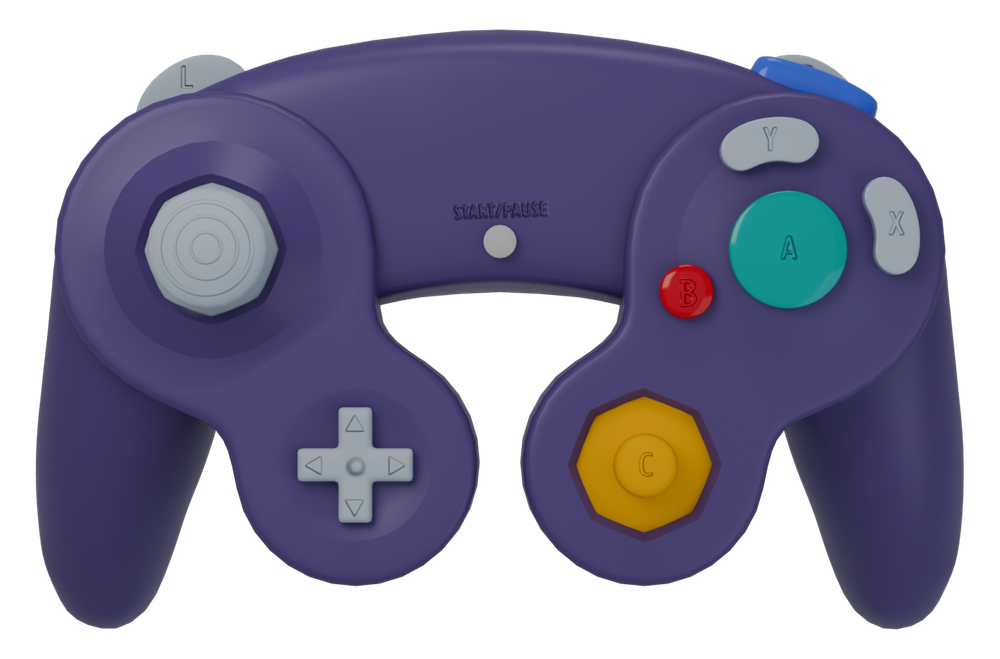
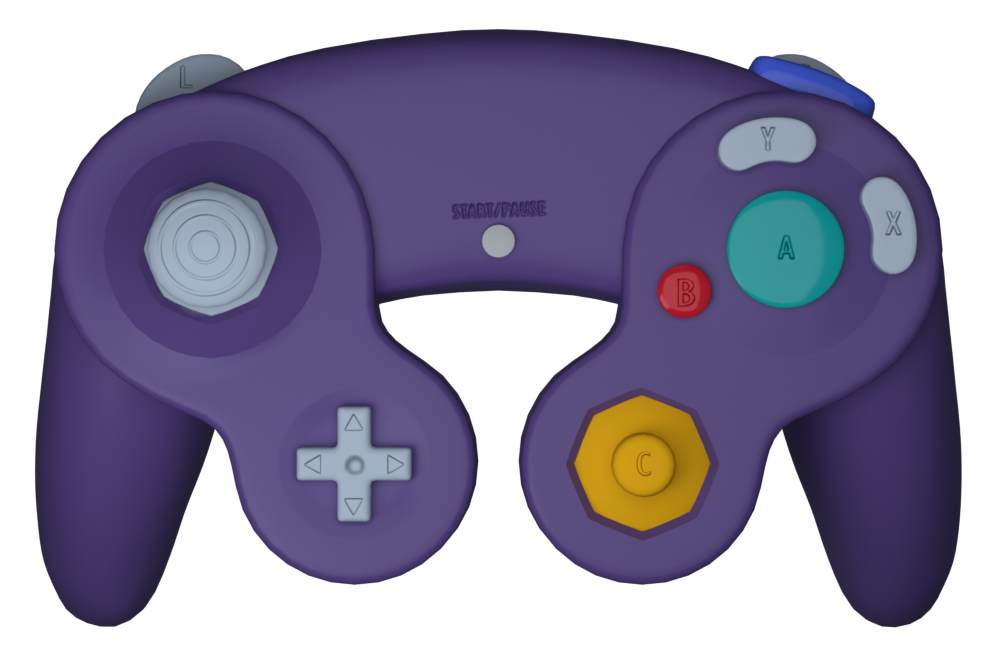
Settings: controller picture re-rendered from the model, sticks tilt on bones
The view from above (art/top.png) is rendered again from the GameCube controller
model with Blender (art/render_top.py, reproducible from the model folder, which
it only reads): the camera of the earlier picture, found by matching its
silhouette (outlines within about 1 %, so the button masks and hotspots still fit
unchanged), and light chosen by comparing renders with it. The brand logo printed
on the model's texture is painted out in a copy, so it is not on the pictures.

For the sticks the picture is also rendered in layers: the controller without its
stick caps (art/top_body.png), and each cap turned on a bone at its stick's root,
up to 22 degrees, towards every point of a 7 x 7 grid of stick positions, rendered
only round the stick with the shell held out (art/top_stick_main.png,
art/top_stick_c.png, kStickCaps in art/hotspots.inc). While a stick is tilted the
Controller buttons page draws the body and the frame nearest each stick's
position, so the caps lean in 3D the way the player holds them, with the real
gate showing; still, it draws the whole picture as before. This replaces cutting
the caps out of the picture and filling their place with a guessed colour.
Settings.exe grows by about 2.5 MB.

diff --git a/tools/padconfig/art/render_top.py b/tools/padconfig/art/render_top.py
@@ -1,0 +1,218 @@
+# Blender (background): the controller from above for the Settings program (tools/padconfig/art), in layers.
+#   blender -b --factory-startup --python render_top.py -- <model dir> <out dir> [samples] [all|full|layers|sticks]
+# <model dir>: the GameCube controller model (source/Gamecube_controller_mesh.zip, textures/*.png); nothing in it is
+# changed. Renders top_full.png (art/top.png), top_body.png (art/top_body.png: without the two stick caps) and
+# top_cap_main.png / top_cap_c.png (each cap alone; cropped to their box they are art/top_cap_*.png, the boxes are
+# kStickCaps in art/hotspots.inc), all 1000 x 659 with a transparent background, the same camera and light. Blender 4.5,
+# Cycles on the CPU: about 90 s. The camera is the earlier art/top.png's (found by matching its silhouette), so the
+# button masks still fit.
+import bpy, sys, os, math, tempfile, zipfile
+from mathutils import Vector
+
+argv = sys.argv[sys.argv.index("--") + 1:]
+model, out = argv[0], argv[1]
+samples = int(argv[2]) if len(argv) > 2 else 128
+only = argv[3] if len(argv) > 3 else "all"
+os.makedirs(out, exist_ok=True)
+textures = os.path.join(model, "textures")
+
+bpy.ops.wm.read_factory_settings(use_empty=True)
+unpacked = tempfile.mkdtemp()
+with zipfile.ZipFile(os.path.join(model, "source", "Gamecube_controller_mesh.zip")) as z:
+    z.extractall(unpacked)
+bpy.ops.wm.obj_import(filepath=os.path.join(unpacked, "GameCube_Controller_OBJ_High.obj"))
+mesh = [o for o in bpy.context.scene.objects if o.type == 'MESH'][0]
+
+# The model's textures (the OBJ's MTL file is not shipped): base colour, normal map, roughness.
+mat = bpy.data.materials.new("Controller")
+mat.use_nodes = True
+nt = mat.node_tree
+bsdf = nt.nodes["Principled BSDF"]
+def tex(name, non_color):
+    n = nt.nodes.new("ShaderNodeTexImage")
+    n.image = bpy.data.images.load(os.path.join(textures, "Gamecube_controller_mesh_GameCube_Mat_" + name + ".png"))
+    if non_color:
+        n.image.colorspace_settings.name = "Non-Color"
+    return n
+base = tex("Base", False)
+# No brand logo on the pictures: the logo printed on the texture (pixels 661..857 x 1368..1469 of the 2048 x 2048 base
+# colour, on plain purple) is painted over with that purple, in a copy.
+img = base.image
+w, h = img.size
+px = list(img.pixels[:])
+purple = (90 / 255.0, 70 / 255.0, 129 / 255.0, 1.0)
+for y in range(1368, 1470):
+    row = (h - 1 - y) * w  # Blender's rows start at the bottom
+    for x in range(661, 858):
+        px[(row + x) * 4:(row + x) * 4 + 4] = purple
+img.pixels[:] = px
+# Saved beside the unpacked model (a temporary folder) and used from there: the renderer reads the file.
+img.filepath_raw = os.path.join(unpacked, "base_without_logo.png")
+img.file_format = 'PNG'
+img.save()
+img.reload()
+nt.links.new(base.outputs["Color"], bsdf.inputs["Base Color"])
+nt.links.new(tex("Roug", True).outputs["Color"], bsdf.inputs["Roughness"])
+nm = nt.nodes.new("ShaderNodeNormalMap")
+nt.links.new(tex("Norm", True).outputs["Color"], nm.inputs["Color"])
+nt.links.new(nm.outputs["Normal"], bsdf.inputs["Normal"])
+mesh.data.materials.clear()
+mesh.data.materials.append(mat)
+for p in mesh.data.polygons:
+    p.use_smooth = True
+
+# Split into its loose parts and name the two stick caps by where they are.
+bpy.context.view_layer.objects.active = mesh
+mesh.select_set(True)
+bpy.ops.object.mode_set(mode='EDIT')
+bpy.ops.mesh.select_all(action='SELECT')
+bpy.ops.mesh.separate(type='LOOSE')
+bpy.ops.object.mode_set(mode='OBJECT')
+def centre(o):
+    cs = [o.matrix_world @ v.co for v in o.data.vertices]
+    return sum(cs, Vector()) / len(cs)
+caps = {}
+for o in bpy.context.scene.objects:
+    if o.type != 'MESH':
+        continue
+    c = centre(o)
+    size = max(o.dimensions)
+    if abs(c.x + 15.0) < 1.0 and abs(c.y) < 1.0 and 7.0 < size < 9.0:
+        caps["main"] = o
+    elif abs(c.x - 7.57) < 1.0 and abs(c.y + 11.25) < 1.0 and 7.0 < size < 9.0:
+        caps["c"] = o
+assert set(caps) == {"main", "c"}, caps
+
+scene = bpy.context.scene
+scene.render.engine = 'CYCLES'
+scene.cycles.samples = samples
+scene.cycles.use_denoising = True
+scene.cycles.device = 'CPU'
+scene.render.threads_mode = 'FIXED'
+scene.render.threads = 4
+scene.render.film_transparent = True
+scene.render.resolution_x, scene.render.resolution_y = 1000, 659
+scene.render.resolution_percentage = 100
+scene.view_settings.view_transform = 'Standard'
+scene.view_settings.look = 'None'
+
+# The camera of top.png, found by matching its silhouette (fit_camera.py): straight down from 195.5 units over
+# (0.08, -4.19), 19.35 pixels per unit at height 22.
+cam_data = bpy.data.cameras.new("Top")
+cam_data.sensor_fit = 'HORIZONTAL'
+cam_data.sensor_width = 36.0
+cam_data.lens = 19.35 * (195.5 - 22.0) / 1000.0 * 36.0
+cam = bpy.data.objects.new("Top", cam_data)
+scene.collection.objects.link(cam)
+cam.location = (0.08, -4.19, 195.5)
+cam.rotation_euler = (0.0, 0.0, 0.0)
+scene.camera = cam
+
+# Light: a soft studio key from the upper left and front, a fill, and a grey world.
+# Chosen by comparing renders with the earlier art/top.png: the world's strength, the key, fill, rim and overhead
+# energies, how cool the world is; the plastic's specular level, the lights' colour and the exposure.
+LIGHT = [0.05, 8000.0, 500.0, 600.0, 26000.0, 1.2]
+TINT = (0.86, 0.9, 1.0)
+scene.view_settings.exposure = 0.35
+bsdf.inputs["Specular IOR Level"].default_value = 0.25
+world = bpy.data.worlds.new("World")
+scene.world = world
+world.use_nodes = True
+world.node_tree.nodes["Background"].inputs["Color"].default_value = (0.8 - 0.1 * LIGHT[5], 0.8 - 0.05 * LIGHT[5], 0.82 + 0.15 * LIGHT[5], 1.0)
+world.node_tree.nodes["Background"].inputs["Strength"].default_value = LIGHT[0]
+def area(name, loc, energy, size):
+    d = bpy.data.lights.new(name, 'AREA')
+    d.energy = energy
+    d.size = size
+    d.color = TINT
+    o = bpy.data.objects.new(name, d)
+    scene.collection.objects.link(o)
+    o.location = loc
+    o.rotation_euler = (Vector((0, 0, 0)) - Vector(loc)).to_track_quat('-Z', 'Y').to_euler()
+    return o
+area("Key", (-30.0, -25.0, 60.0), LIGHT[1], 30.0)
+area("Fill", (35.0, -10.0, 45.0), LIGHT[2], 40.0)
+area("Rim", (0.0, 40.0, 40.0), LIGHT[3], 30.0)
+if LIGHT[4] > 0:
+    area("Overhead", (0.0, -4.0, 90.0), LIGHT[4], 70.0)  # a big softbox above: the faces towards the camera
+
+def render(name, hide=(), holdout=()):
+    for o in scene.objects:
+        if o.type == 'MESH':
+            o.hide_render = o in hide
+            o.is_holdout = o in holdout
+    scene.render.filepath = os.path.join(out, name)
+    bpy.ops.render.render(write_still=True)
+    print("WROTE", scene.render.filepath)
+
+others = [o for o in scene.objects if o.type == 'MESH' and o not in caps.values()]
+# ---- the sticks as a virtual controller: a bone at each stick's root, the cap tilted on it ----------------------------
+# "sticks": each cap alone (the rest held out, so the shell hides what tilts under it), tilted towards each point of a
+# GRID x GRID grid of stick positions (-1..1 on both axes, the tilt's length kept within 1), up to MOST_TILT degrees,
+# rendered only in the area round the stick: sticks/<main|c>_<column>_<row>.png, column 0 = full left, row 0 = full
+# down. The cap turns on a bone whose head is the stick's root, PIVOT_DEPTH units under the cap.
+GRID, MOST_TILT, PIVOT_DEPTH = 7, 22.0, 4.0
+# Where each stick is in the picture, as fractions of its width and height from the top left (the area rendered).
+STICK_AREA = {"main": (0.066, 0.158, 0.356, 0.598), "c": (0.496, 0.481, 0.788, 0.924)}
+
+def stick_frames():
+    from mathutils import Matrix, Quaternion
+    arm_data = bpy.data.armatures.new("Sticks")
+    rig = bpy.data.objects.new("Sticks", arm_data)
+    scene.collection.objects.link(rig)
+    bpy.context.view_layer.objects.active = rig
+    bpy.ops.object.mode_set(mode='EDIT')
+    for key, cap in caps.items():
+        lo = min((cap.matrix_world @ v.co).z for v in cap.data.vertices)
+        c = centre(cap)
+        bone = arm_data.edit_bones.new(key)
+        bone.head = (c.x, c.y, lo - PIVOT_DEPTH)  # the stick's root
+        bone.tail = (c.x, c.y, lo)
+    bpy.ops.object.mode_set(mode='OBJECT')
+    for key, cap in caps.items():
+        world = cap.matrix_world.copy()
+        cap.parent = rig
+        cap.parent_type = 'BONE'
+        cap.parent_bone = key
+        cap.matrix_world = world  # stays where it is; follows the bone from now on
+    rig.hide_render = True
+    os.makedirs(os.path.join(out, "sticks"), exist_ok=True)
+    scene.render.use_border = True
+    scene.render.use_crop_to_border = True
+    for key, cap in caps.items():
+        x0, y0, x1, y1 = STICK_AREA[key]
+        scene.render.border_min_x, scene.render.border_max_x = x0, x1
+        scene.render.border_min_y, scene.render.border_max_y = 1.0 - y1, 1.0 - y0
+        for o in scene.objects:
+            if o.type == 'MESH':
+                o.hide_render = o in caps.values() and o is not cap
+                o.is_holdout = o in others
+        pose = rig.pose.bones[key]
+        pose.rotation_mode = 'QUATERNION'
+        rest = rig.data.bones[key].matrix_local.to_3x3()
+        for column in range(GRID):
+            for row in range(GRID):
+                dx = column / (GRID - 1) * 2.0 - 1.0
+                dy = row / (GRID - 1) * 2.0 - 1.0
+                length = math.hypot(dx, dy)
+                if length > 1.0:
+                    dx, dy, length = dx / length, dy / length, 1.0
+                if length > 0.0:
+                    # Pushed towards (dx, dy) the stick's top leans that way: a turn about (-dy, dx, 0).
+                    turn = Matrix.Rotation(math.radians(MOST_TILT * length), 3, Vector((-dy, dx, 0.0)).normalized())
+                    pose.rotation_quaternion = (rest.inverted() @ turn @ rest).to_quaternion()
+                else:
+                    pose.rotation_quaternion = Quaternion()
+                bpy.context.view_layer.update()
+                scene.render.filepath = os.path.join(out, "sticks", "%s_%d_%d.png" % (key, column, row))
+                bpy.ops.render.render(write_still=True)
+        pose.rotation_quaternion = Quaternion()
+    print("WROTE sticks")
+if only in ("all", "full"):
+    render("top_full.png")
+if only == "sticks":
+    stick_frames()
+if only in ("all", "layers"):
+    render("top_body.png", hide=list(caps.values()))
+    render("top_cap_main.png", hide=[caps["c"]], holdout=others)
+    render("top_cap_c.png", hide=[caps["main"]], holdout=others)

diff --git a/tools/padconfig/controller_view.cpp b/tools/padconfig/controller_view.cpp
@@ -59,9 +59,10 @@ Bitmap* load_art(int id) {
 
 Bitmap* art(int id) {
     // Kept for the program's life: they must not be destroyed after GDI+ is shut down.
-    static Bitmap* const top = load_art(101);
-    static Bitmap* const tilted = load_art(102);
-    return id == 101 ? top : tilted;
+    static std::map<int, Bitmap*> cache;
+    auto it = cache.find(id);
+    if (it == cache.end()) it = cache.emplace(id, load_art(id)).first;
+    return it->second;
 }
 
 // A button's mask from the render: its shape in red, an outline along its edge in green.
@@ -109,76 +110,8 @@ const Marks& marks(int id) {
     return cache.emplace(id, m).first->second;
 }
 
-// ---- the sticks: their caps, cut out of the picture from above, drawn tilted the way the player holds them ------------
-
-// A stick's cap in the picture from above (fractions of the picture's width: its radius, and the radius of the dark
-// gate around it), measured on the render.
-struct StickArt {
-    const char* key;
-    float cap, gate;
-};
-constexpr StickArt kSticks[] = {{"stick", 0.076f, 0.088f}, {"cstick", 0.071f, 0.084f}};
-// How far a cap moves at full tilt, as a fraction of the picture's width (about what the real stick shows from above).
-constexpr float kMostTilt = 0.032f;
-
-struct Cap {
-    Bitmap* image = nullptr;  // the cap, round, with a soft edge
-    Color well;               // the gate's colour, shown where the cap has moved away
-};
-
-// Kept for the program's life, like the pictures.
-const Cap& cap_of(const StickArt& stick) {
-    static std::map<std::string, Cap> cache;
-    auto it = cache.find(stick.key);
-    if (it != cache.end()) return it->second;
-    Cap c;
-    Bitmap* top = art(101);
-    const Hotspot* h = nullptr;
-    for (const Hotspot& spot : kTopHotspots)
-        if (std::strcmp(spot.key, stick.key) == 0) h = &spot;
-    if (top != nullptr && h != nullptr) {
-        const INT w = static_cast<INT>(top->GetWidth()), ht = static_cast<INT>(top->GetHeight());
-        const REAL cx = w * h->cx, cy = ht * h->cy, r = w * stick.cap;
-        const INT size = static_cast<INT>(std::ceil(r * 2.0f)) + 2;
-        auto* image = new Bitmap(size, size, PixelFormat32bppARGB);
-        {
-            Graphics g(image);
-            g.SetInterpolationMode(InterpolationModeHighQualityBicubic);
-            g.SetPixelOffsetMode(PixelOffsetModeHalf);
-            g.DrawImage(top, RectF(0, 0, static_cast<REAL>(size), static_cast<REAL>(size)), cx - size / 2.0f, cy - size / 2.0f,
-                        static_cast<REAL>(size), static_cast<REAL>(size), UnitPixel);
-        }
-        Rect all(0, 0, size, size);
-        BitmapData data{};
-        image->LockBits(&all, ImageLockModeRead | ImageLockModeWrite, PixelFormat32bppARGB, &data);
-        for (INT y = 0; y < size; ++y) {
-            auto* row = reinterpret_cast<BYTE*>(data.Scan0) + y * data.Stride;
-            for (INT x = 0; x < size; ++x) {
-                const REAL dx = x + 0.5f - size / 2.0f, dy = y + 0.5f - size / 2.0f;
-                const REAL inside = std::clamp(r - std::sqrt(dx * dx + dy * dy) + 0.5f, 0.0f, 1.0f);  // a soft edge
-                row[x * 4 + 3] = static_cast<BYTE>(row[x * 4 + 3] * inside);
-            }
-        }
-        image->UnlockBits(&data);
-        c.image = image;
-        // The gate's colour: the picture's average on a ring between the cap and the gate's edge.
-        int red = 0, green = 0, blue = 0, n = 0;
-        const REAL ring = w * (stick.cap + stick.gate) / 2.0f;
-        for (int i = 0; i < 32; ++i) {
-            const REAL a = i * 6.2831853f / 32.0f;
-            const INT x = static_cast<INT>(cx + ring * std::cos(a)), y = static_cast<INT>(cy + ring * std::sin(a));
-            if (x < 0 || y < 0 || x >= w || y >= ht) continue;
-            Color px;
-            top->GetPixel(x, y, &px);
-            red += px.GetR();
-            green += px.GetG();
-            blue += px.GetB();
-            ++n;
-        }
-        if (n > 0) c.well = Color(255, static_cast<BYTE>(red / n), static_cast<BYTE>(green / n), static_cast<BYTE>(blue / n));
-    }
-    return cache.emplace(stick.key, c).first->second;
-}
+// ---- the sticks: the picture from above in layers (the body, and each cap alone), a cap drawn moved the way the
+// player tilts the stick ----------------------------------------------------------------------------------------------
 
 // Where things are, in view units: the label columns `f` times their normal width (and the labels f times their normal
 // size) on both sides of the pictures, the whole scaled by `scale` to the area and centred across it.
@@ -278,32 +211,40 @@ struct Painter {
         return at(tilted_rect(m), h->cx, h->cy);
     }
 
-    // A stick held away from the middle: its gate shows where the cap was, and the cap is drawn moved that way.
-    void draw_stick(const StickArt& stick, float x, float y) {
-        if (x == 0.0f && y == 0.0f) return;
-        const Cap& c = cap_of(stick);
-        if (c.image == nullptr) return;
+    // A stick cap as the player tilts that stick: the frame of its sheet nearest the stick's position, with a red ring
+    // like a pressed button's (stronger the further it is tilted) while it is away from the middle.
+    void draw_cap(const CapArt& cap, float x, float y) {
+        Bitmap* sheet = art(cap.id);
+        if (sheet == nullptr) return;
+        const int last = kStickGrid - 1;
+        const int column = std::clamp(static_cast<int>(std::lround((x + 1.0f) / 2.0f * last)), 0, last);
+        const int row = last - std::clamp(static_cast<int>(std::lround((y + 1.0f) / 2.0f * last)), 0, last);  // up is on top
+        const REAL cell_w = static_cast<REAL>(sheet->GetWidth()) / kStickGrid, cell_h = static_cast<REAL>(sheet->GetHeight()) / kStickGrid;
         const RectF r = top_rect(m);
-        const PointF centre = top(stick.key);
-        const REAL radius = r.Width * stick.cap;
-        SolidBrush well(c.well);
-        g.FillEllipse(&well, centre.X - radius, centre.Y - radius, radius * 2.0f, radius * 2.0f);
-        const REAL shift = r.Width * kMostTilt;
-        const REAL size = c.image->GetWidth() * r.Width / art(101)->GetWidth();  // its pixels at the picture's scale
-        const PointF moved(centre.X + x * shift, centre.Y - y * shift);
-        g.DrawImage(c.image, RectF(moved.X - size / 2.0f, moved.Y - size / 2.0f, size, size));
-        // Lit like a pressed button: a red ring round the cap, stronger the further it is tilted.
+        const RectF box(r.X + r.Width * cap.x, r.Y + r.Height * cap.y, r.Width * cap.w, r.Height * cap.h);
+        g.DrawImage(sheet, box, column * cell_w, row * cell_h, cell_w, cell_h, UnitPixel);
+        if (x == 0.0f && y == 0.0f) return;
+        // The ring round the cap's top, which leans with the stick: about a third of the frame across, at its centre
+        // moved up to a quarter of the frame towards the tilt.
         const REAL amount = std::min(1.0f, std::sqrt(x * x + y * y));
+        const REAL radius = std::min(box.Width, box.Height) * 0.30f;
+        const PointF centre(box.X + box.Width * (0.5f + 0.17f * x), box.Y + box.Height * (0.5f - 0.17f * y));
         Pen ring(Color(static_cast<BYTE>(90 + 120 * amount), 235, 45, 35), 3.0f);
-        g.DrawEllipse(&ring, moved.X - radius, moved.Y - radius, radius * 2.0f, radius * 2.0f);
+        g.DrawEllipse(&ring, centre.X - radius, centre.Y - radius, radius * 2.0f, radius * 2.0f);
     }
-
     void draw_pictures() {
         g.SetInterpolationMode(InterpolationModeHighQualityBicubic);
         g.SetPixelOffsetMode(PixelOffsetModeHalf);
-        if (Bitmap* b = art(101)) g.DrawImage(b, top_rect(m));
-        draw_stick(kSticks[0], v.main_x, v.main_y);
-        draw_stick(kSticks[1], v.c_x, v.c_y);
+        // Still sticks: the whole picture. A tilted one: the body without its caps, and the caps where the sticks are.
+        const bool tilted = v.main_x != 0.0f || v.main_y != 0.0f || v.c_x != 0.0f || v.c_y != 0.0f;
+        Bitmap* body = tilted ? art(kTopBodyId) : nullptr;
+        if (body != nullptr) {
+            g.DrawImage(body, top_rect(m));
+            draw_cap(kStickCaps[0], v.main_x, v.main_y);
+            draw_cap(kStickCaps[1], v.c_x, v.c_y);
+        } else if (Bitmap* b = art(101)) {
+            g.DrawImage(b, top_rect(m));
+        }
         if (Bitmap* b = art(102)) g.DrawImage(b, tilted_rect(m));
         for (const Hotspot& h : kTopHotspots) mark(top_rect(m), h);
         for (const Hotspot& h : kTiltedHotspots) mark(tilted_rect(m), h);
